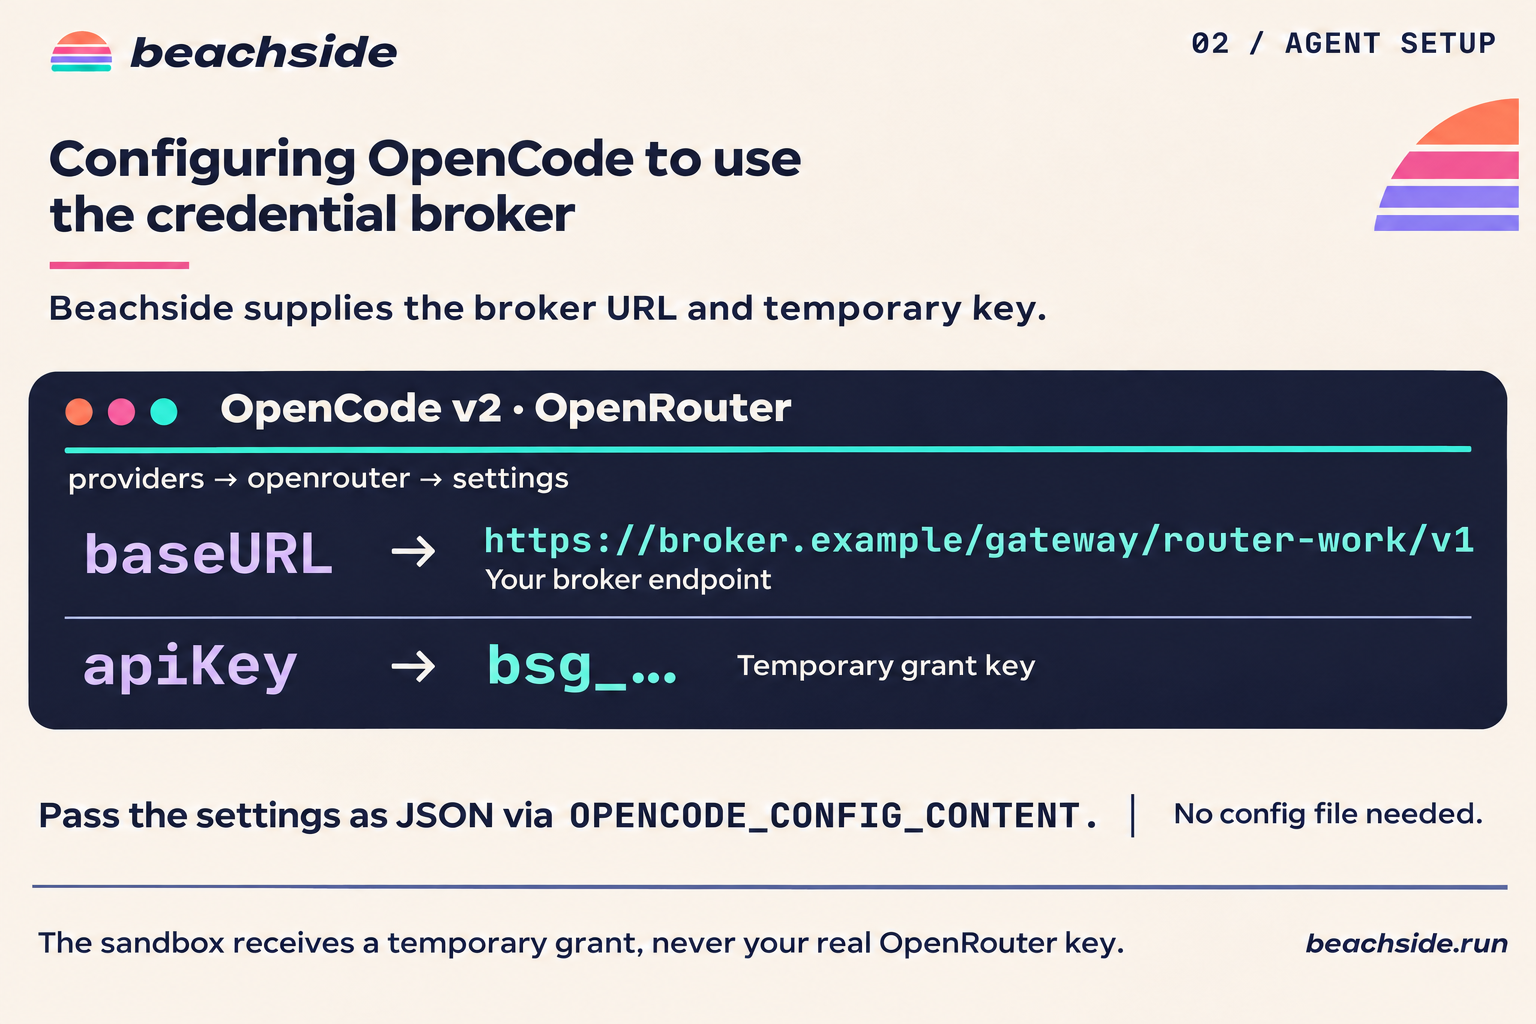
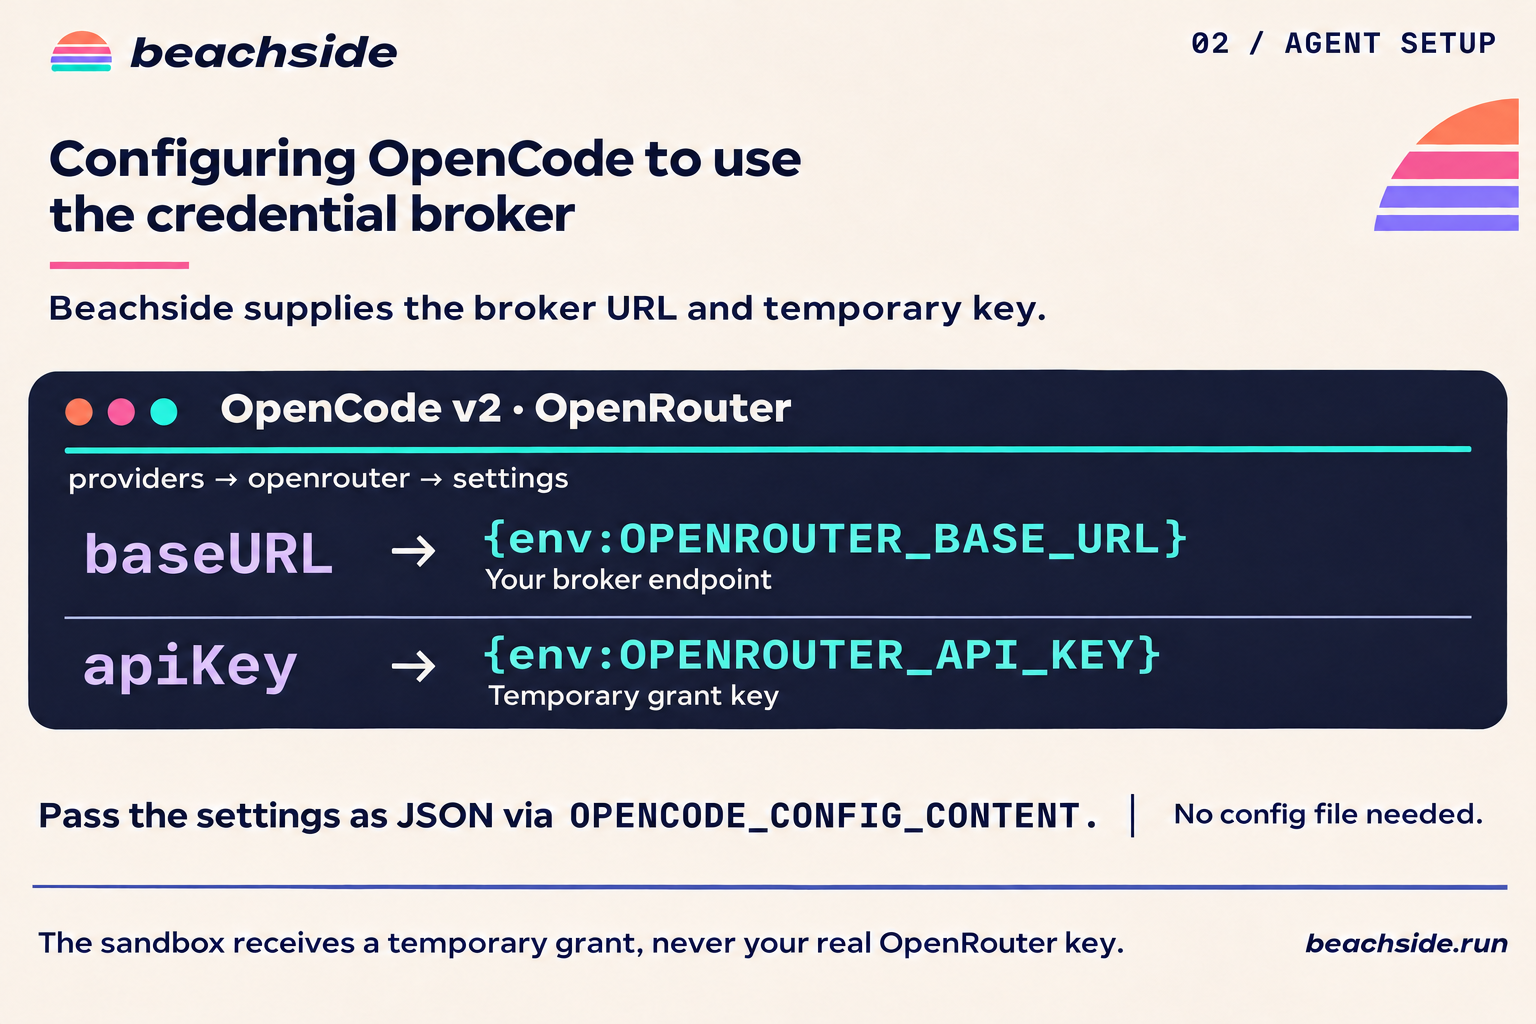
Show OpenCode broker environment references

diff --git a/README.md b/README.md
@@ -83,9 +83,7 @@ If `router-work` has upstream base URL `https://openrouter.ai/api/v1`, the sandb
 
 For OpenCode v2, set the provider’s `baseURL` to the broker endpoint and its `apiKey` to the temporary grant. `OPENCODE_CONFIG_CONTENT` takes the nested JSON shown in the [OpenCode configuration example](./services/credential-broker/README.md#opencode).
 
-![OpenCode v2 provider settings point baseURL at the broker endpoint and use the temporary grant as apiKey.](./docs/images/opencode-broker-configuration.png)
-
-The OpenCode diagram uses the built-in OpenRouter integration, whose sandbox base URL ends in `/v1`.
+![OpenCode v2 OpenRouter settings use {env:OPENROUTER_BASE_URL} for baseURL and {env:OPENROUTER_API_KEY} for apiKey.](./docs/images/opencode-broker-configuration.png)
 
 The package will publish independently of the Beachside SDK as `@beachside/credential-client`. To try an unreleased revision, build it in a clone and run `npm pack`. Install the resulting tarball in the consuming project. It includes JavaScript, TypeScript declarations, and the `beachside-broker` executable.
 
